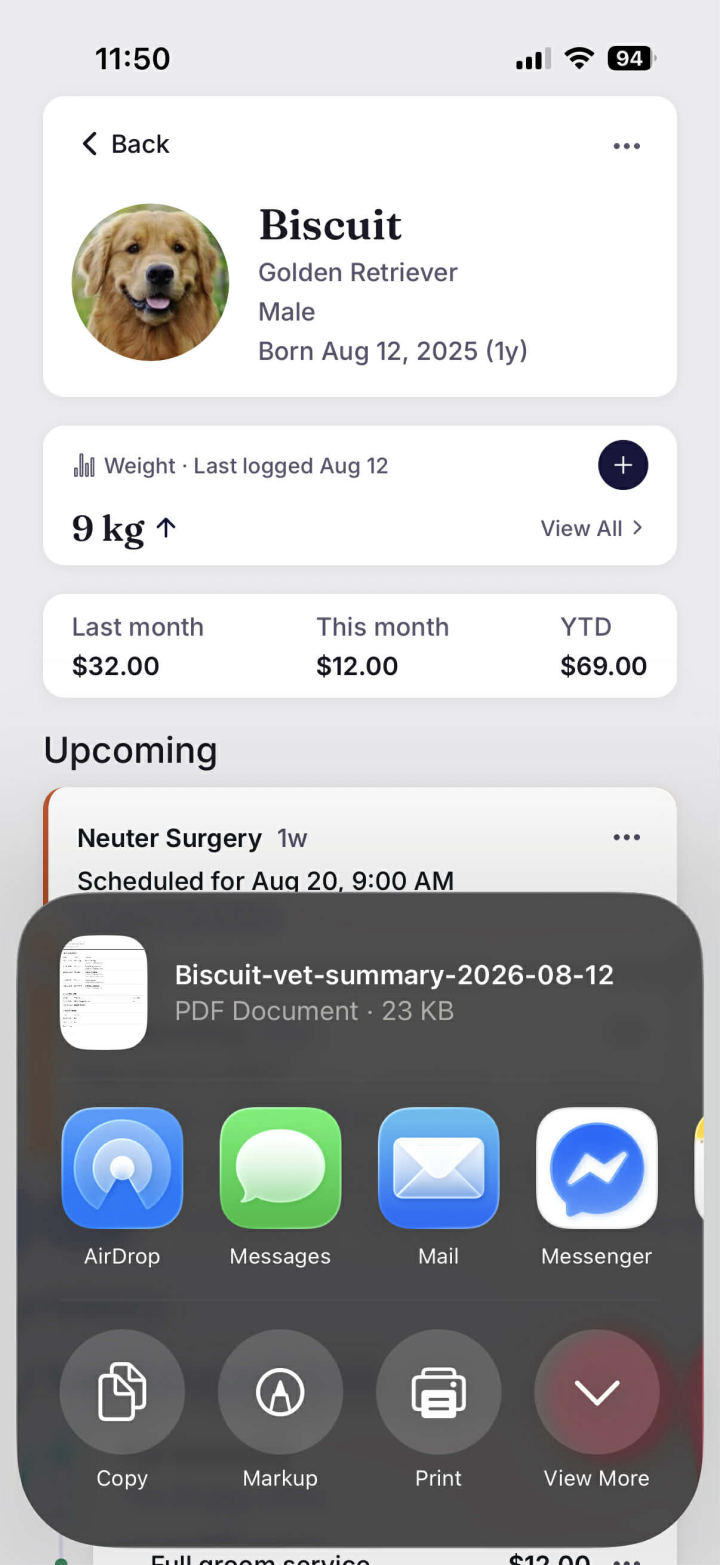
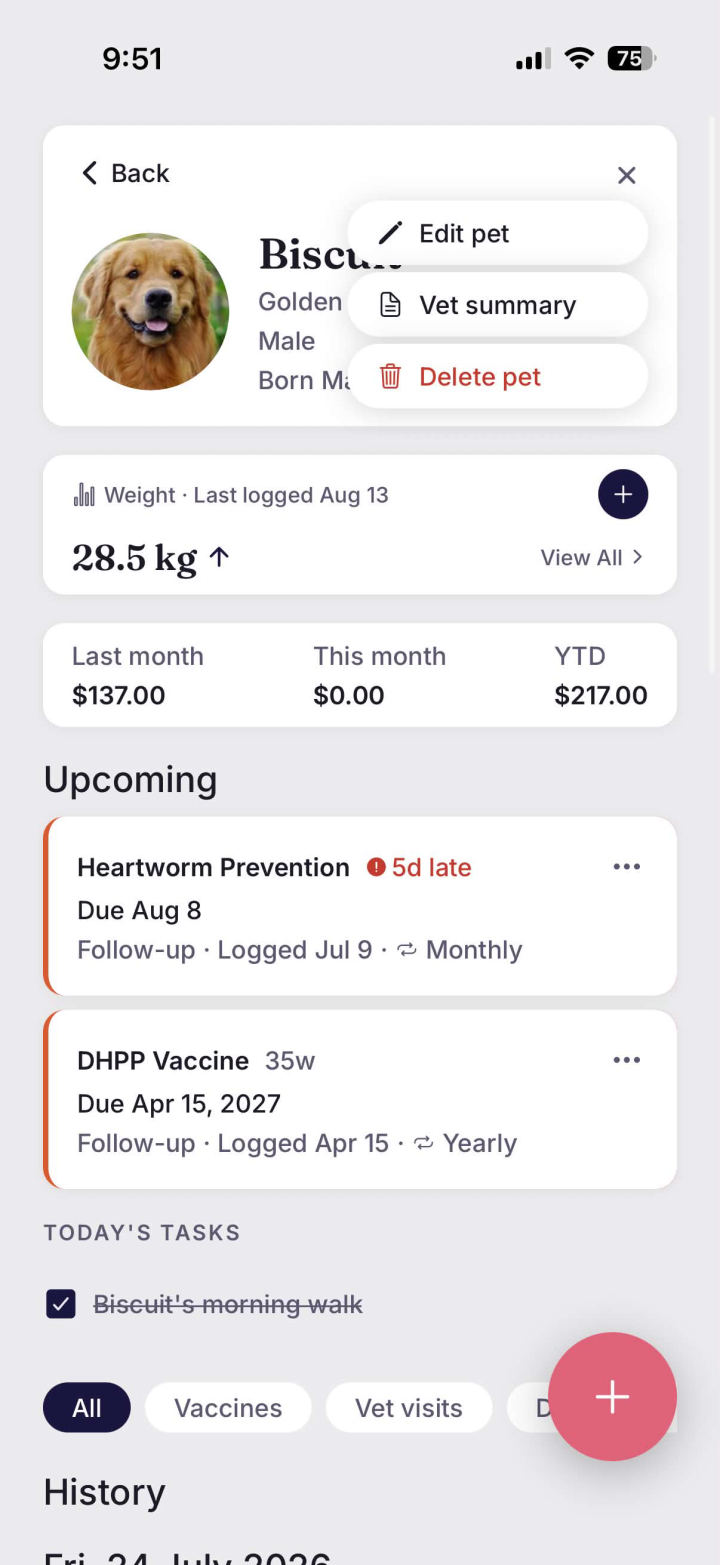
[PET-205 follow-up] Simplify vet-PDF showcase item, remove horizontal-scroll interaction
Three related changes to the vet-PDF item, replacing two rounds of
horizontal-scroll iteration (round 2's re-anchored transform, round 4's
.vet-pdf-scroll container) with a simpler design that has no horizontal
interaction at all:

- New screenshot (assets/marketing/petlist_vet-pdf-export.jpg, already
  updated upstream) is a full-device capture of the pet detail screen with
  its menu open, not a pre-cropped shot like the other three items. Its
  own aspect ratio is nearly identical to the phone frame's, so plain
  object-fit:cover crops almost nothing and the menu rendered too small to
  read. Regenerated the stale compressed -web derivative (still pointing
  at the old screenshot) from the new source, then zoomed via
  transform:scale(1.5) anchored top-center. Tuned empirically. 2.35x
  cropped the menu's own right edge ("Vet summa[ry]", "Delete p[et]"
  truncated) because a uniform scale zooms both axes and the menu sits
  right-of-center in the source; 1.5x is the value that keeps "Edit pet" /
  "Vet summary" / "Delete pet" fully legible while still cropping away the
  weight card and reminders below.

- Removed .vet-pdf-scroll entirely and replaced the peeking, horizontally-
  scrollable document with a small (56-80px) static preview badge, nested
  inside .phone-frame (which has no overflow:hidden of its own, unlike
  .phone-screen) so it anchors precisely to the phone's corner without
  needing its own positioning wrapper. Reuses the existing complete
[…]

diff --git a/css/styles.css b/css/styles.css
@@ -45,8 +45,12 @@ body {
 }
 
 /* Horizontal-overflow backstop (PET-205 round 2, item 3). The actual
-   offending element is fixed at its source -- see .doc-peek-trigger -- this
-   only stops a future regression from becoming a scrollable page.
+   offending element was fixed at its source (`.doc-peek-trigger`'s
+   transform, then round 4's containing wrapper); round 5 removed that
+   whole horizontal-scroll interaction outright in favor of a small static
+   preview badge, so there's nothing left in the showcase strip that comes
+   anywhere near a column edge any more -- this backstop is now purely
+   defensive, with no known element depending on it.
    `clip` is preferred over `hidden` because `hidden` makes the element a
    scroll container, which would break the sticky showcase visual added in
    item 4c. `hidden` is kept as the fallback for browsers without `clip`
@@ -453,6 +457,31 @@ a { color: inherit; }
   object-fit: cover;
 }
 
+/* PET-205 round 5, item 2a: the vet-PDF item's screenshot is now a
+   full-device capture (kebab menu open over the pet detail screen) rather
+   than a pre-cropped shot like the other three -- its own aspect ratio
+   (1206x2622) is nearly identical to the phone frame's, so object-fit:cover
+   alone crops almost nothing and the menu renders too small to read at
+   thumbnail size. Scaled up and anchored top-center via transform (not
+   object-position -- cover has no crop margin to reposition within when
+   source and container aspect ratios already match, so there's nothing
+   for object-position to shift).
+
+   1.5x was chosen empirically, not by formula: a uniform transform:scale()
+   zooms both axes together, so it was tried at a few values and screenshot-
+   checked each time. 2.35x cropped the menu's own right edge ("Vet
+   summa[ry]", "Delete p[et]" truncated mid-word) because the menu sits
+   right-of-center in the source and a symmetric top-center zoom crops both
+   sides equally. 1.5x is the value that keeps "Edit pet" / "Vet summary" /
+   "Delete pet" fully legible with no truncation while still cropping away
+   the weight card, spending figures, and reminders below -- confirmed
+   against the actual rendered composite, not assumed from the transform
+   math. */
+.showcase-item.is-document .phone-screen img {
+  transform: scale(1.5);
+  transform-origin: 50% 0%;
+}
+
 .phone-frame .phone-island {
   /* PET-205 follow-up item 1: a real Dynamic Island is ~4.4% of screen
      height (iPhone 14 Pro: 37.33pt of 852pt) and ~32% of width -- the
@@ -603,96 +632,47 @@ a { color: inherit; }
   }
 }
 
-/* Vet PDF export — distinct treatment: a flat document emerging from
-   beside/behind the phone, not another phone frame. */
+/* Vet PDF export — distinct treatment: a small static document preview
+   badge, tappable to open the full document in a lightbox. */
 
-/* ---------- Contained horizontal overflow (PET-205 round 4) ---------- */
-/* The phone screenshot + peeking document together are wider than a single
-   phone-frame column -- round 2 handled that by re-anchoring the peek's
-   transform so it never quite crossed the container edge, which worked but
-   was fragile: any future change to the offset, rotation, or peek size
-   could silently reintroduce page-wide overflow, since nothing actually
-   CONTAINED it structurally. This wrapper is that structural fix: it's the
-   one element in the showcase strip allowed to scroll horizontally, sized
-   to match its sibling items' visual column (100% width, same as every
-   other .showcase-visual), with overflow-x: auto so any content wider than
-   that column scrolls *inside this box* instead of widening the page.
-   overscroll-behavior-x: contain stops that scroll from chaining to the
-   page once it hits its own edge -- relevant on mobile Safari, where an
-   uncontained horizontal scroll reaching the document edge can interfere
-   with the system's edge swipe-back gesture. */
-.vet-pdf-scroll {
-  position: relative;
-  width: 100%;
-  overflow-x: auto;
-  overscroll-behavior-x: contain;
-  -webkit-overflow-scrolling: touch;
-  scrollbar-width: thin;
-}
-
-/* Right-edge fade: a quiet hint that there's more to scroll, matching the
-   width of the actual overhang below (px-based rotate(7deg) shifts the
-   painted edge ~2.4px per degree per 20px of element half-width; the
-   gradient doesn't need to be exact, just wide enough to read as an edge
-   cue rather than a hard clip line). Pointer-events:none so it never
-   blocks the drag/tap underneath it. */
-.vet-pdf-scroll::after {
-  content: "";
-  position: absolute;
-  top: 0;
-  right: 0;
-  bottom: 0;
-  width: 28px;
-  background: linear-gradient(to right, transparent, var(--lavender-card));
-  pointer-events: none;
-}
-
-/* PET-205 follow-up item 3: the peeking thumbnail is now a tap-to-expand
-   trigger (a <button>, not a bare <img>) showing a tighter letterhead crop
-   at a slightly larger size than before -- the original full-page crop
-   shrunk to ~150px was illegible.
-
-   PET-205 round 4: now that .vet-pdf-scroll (above) structurally contains
-   any overflow, the peek's resting position can go back to a genuine,
-   generous protrusion past the phone's own edge -- round 2's translateX(0)
-   was a compromise forced by having nothing to contain it. translateX(34%)
-   of its own ~175px width is ~60px of overhang, which is real overflow at
-   narrow widths (where it's actually needed -- confirmed 320-360px columns
-   are too narrow to fit phone + peek without it) while fitting naturally,
-   needing no scroll at all, from ~390px up. */
+/* ---------- Simplified static preview (PET-205 round 5, item 2) ---------- */
+/* Replaces the prior two rounds' horizontal-scroll/peek treatment entirely
+   (round 2's re-anchored transform, round 4's .vet-pdf-scroll container).
+   That interaction was removed outright rather than iterated on again: a
+   small, fully-visible static badge needs no scroll container to contain
+   overflow it no longer has, no rotate/translateX slide-in to coordinate
+   with one, and reads more clearly as "tap for more" than "here's a sliver,
+   pan to see the rest." Nested inside .phone-frame (which has no
+   overflow:hidden of its own, unlike .phone-screen) rather than as a
+   sibling in .showcase-visual, so it anchors precisely to the phone's own
+   corner regardless of the column's width -- no extra positioning wrapper
+   needed. It has no .scroll-fade of its own: sitting inside .phone-frame
+   inside .showcase-visual, it fades in as part of that whole block's
+   existing entrance rather than needing a second, separate one. */
 .doc-peek-trigger {
   position: absolute;
-  right: 0;
-  bottom: 6%;
-  width: 52%;
-  max-width: 175px;
+  right: -14px;
+  bottom: 14%;
+  width: 30%;
+  max-width: 80px;
+  min-width: 56px;
   border: none;
   background: none;
   padding: 0;
   cursor: pointer;
-  z-index: 0;
-  opacity: 0;
-  transform: rotate(7deg) translateX(-10%);
+  border-radius: 6px;
+  z-index: 2;
+  /* Slow, low-key ambient pulse (item 2d) -- ~40% peak coral opacity, 3.2s
+     breathing cadence, running continuously rather than scroll-triggered
+     per the ticket. Calibrated against this page's other coral moments
+     (the CTA buttons' own hover shadow, the ambient hero blobs) to read as
+     "quietly alive," not a notification badge or an alert. */
+  animation: doc-peek-pulse 3.2s ease-in-out infinite;
 }
 
-/* Shares the .scroll-fade class's scroll-linked mechanism (native
-   animation-timeline: view(), JS fallback below) rather than the prior
-   round's JS-observer + manual transition-delay, but keeps its own
-   rotate/translateX values instead of .scroll-fade's plain translateY --
-   this is what preserves the "emerging from behind the phone" identity
-   established in round 1, layered onto the same simplified trigger
-   mechanism everything else now uses. */
-@supports (animation-timeline: view()) {
-  .doc-peek-trigger {
-    animation: doc-peek-fade-in linear both;
-    animation-timeline: view();
-    animation-range: cover 0% cover 38%;
-  }
-}
-
-@keyframes doc-peek-fade-in {
-  from { opacity: 0; transform: rotate(7deg) translateX(-10%); }
-  to { opacity: 1; transform: rotate(7deg) translateX(34%); }
+@keyframes doc-peek-pulse {
+  0%, 100% { box-shadow: 0 0 0 0 rgba(224, 99, 122, 0.36), 0 8px 16px -6px rgba(45, 27, 105, 0.35); }
+  50%      { box-shadow: 0 0 0 7px rgba(224, 99, 122, 0), 0 8px 16px -6px rgba(45, 27, 105, 0.35); }
 }
 
 .doc-peek-trigger img {
@@ -700,14 +680,7 @@ a { color: inherit; }
   height: auto;
   display: block;
   border-radius: 6px;
-  overflow: hidden;
-  box-shadow: 0 16px 26px -10px rgba(45, 27, 105, 0.4), 0 3px 8px rgba(45, 27, 105, 0.18);
-  transition: box-shadow 0.18s var(--ease-standard);
-}
-
-.doc-peek-trigger:hover img,
-.doc-peek-trigger:focus-visible img {
-  box-shadow: 0 20px 32px -10px rgba(45, 27, 105, 0.48), 0 4px 10px rgba(45, 27, 105, 0.22);
+  border: 2px solid var(--lavender-card);
 }
 
 .showcase-item.is-document .phone-frame {
@@ -1051,15 +1024,17 @@ a { color: inherit; }
     align-self: start !important;
   }
 
+  /* Stops the ambient pulse (item 2f) rather than removing the glow
+     outright: it still signals "this is tappable" at a glance, which a
+     reduced-motion user benefits from just as much as anyone else -- only
+     the breathing motion itself is what this preference asks to remove.
+     Not frozen at the pulse's own 0%/100% keyframe -- that's a 0-spread
+     ring, i.e. invisible, which would silently remove the affordance
+     rather than hold it still. Uses a fixed mid-way spread/opacity instead
+     so a real (static) ring is always visible. */
   .doc-peek-trigger {
     animation: none !important;
-    transition: none !important;
-    opacity: 1 !important;
-    transform: rotate(7deg) translateX(34%) !important;
-  }
-
-  .doc-peek-trigger img {
-    transition: none;
+    box-shadow: 0 0 0 3px rgba(224, 99, 122, 0.2), 0 8px 16px -6px rgba(45, 27, 105, 0.35) !important;
   }
 
   .lightbox,

diff --git a/index.html b/index.html
@@ -32,7 +32,6 @@
      exist) would otherwise see this content permanently invisible --
      this unhides it unconditionally for exactly that no-JS case. */
   .scroll-fade { opacity: 1 !important; transform: none !important; }
-  .doc-peek-trigger { opacity: 1 !important; transform: rotate(7deg) translateX(34%) !important; }
 </style>
 </noscript>
 </head>
@@ -127,12 +126,10 @@
 
         <article class="showcase-item is-document">
           <div class="showcase-visual scroll-fade">
-            <div class="vet-pdf-scroll">
-              <div class="phone-frame">
-                <div class="phone-island" aria-hidden="true"></div>
-                <div class="phone-screen">
-                  <img src="assets/marketing/petlist_vet-pdf-export-web.jpg" alt="PetList's vet summary export screen, about to generate a PDF" width="720" height="1565" loading="lazy">
-                </div>
+            <div class="phone-frame">
+              <div class="phone-island" aria-hidden="true"></div>
+              <div class="phone-screen">
+                <img src="assets/marketing/petlist_vet-pdf-export-web.jpg" alt="PetList's pet detail screen with its menu open, showing the Vet Summary export option" width="720" height="1565" loading="lazy">
               </div>
               <button type="button" class="doc-peek-trigger" data-lightbox-trigger aria-label="View the full vet summary document">
                 <img src="assets/marketing/petlist_vet-pdf-letterhead-web.jpg" alt="Letterhead of a generated PetList vet visit summary PDF, showing the pet's health events table" width="560" height="801" loading="lazy">
@@ -302,11 +299,16 @@
     // same element -- exactly one of them is live at a time.
     if (reduceMotion) {
       // Reduced motion: css/styles.css's @media block already forces every
-      // .scroll-fade / .doc-peek-trigger to its resting visible state with
-      // !important, so there's nothing for this script to do.
+      // .scroll-fade to its resting visible state with !important, so
+      // there's nothing for this script to do.
     } else if (!(window.CSS && CSS.supports && CSS.supports('animation-timeline', 'view()'))) {
+      // PET-205 round 5: the vet-PDF preview (.doc-peek-trigger) dropped its
+      // bespoke rotate/translateX slide-in along with the horizontal-scroll
+      // treatment it used to accompany -- it's a plain .scroll-fade element
+      // now like everything else, so this fallback no longer needs to
+      // special-case it at all.
       var fadeTargets = Array.prototype.slice.call(
-        document.querySelectorAll('.scroll-fade, .doc-peek-trigger')
+        document.querySelectorAll('.scroll-fade')
       );
       var fadeTicking = false;
 
@@ -333,21 +335,14 @@
         fadeTargets.forEach(function (el) {
           if (atMaxScroll) {
             el.style.opacity = 1;
-            el.style.transform = el.classList.contains('doc-peek-trigger')
-              ? 'rotate(7deg) translateX(34%)'
-              : 'translateY(0px)';
+            el.style.transform = 'translateY(0px)';
             return;
           }
           var rect = el.getBoundingClientRect();
           var progress = (vh - rect.top) / (vh - endAt);
           progress = Math.max(0, Math.min(1, progress));
           el.style.opacity = progress;
-          if (el.classList.contains('doc-peek-trigger')) {
-            var tx = -10 + progress * 44; // -10% -> 34%, matches doc-peek-fade-in (round 4)
-            el.style.transform = 'rotate(7deg) translateX(' + tx.toFixed(2) + '%)';
-          } else {
-            el.style.transform = 'translateY(' + ((1 - progress) * 28).toFixed(2) + 'px)';
-          }
+          el.style.transform = 'translateY(' + ((1 - progress) * 28).toFixed(2) + 'px)';
         });
         fadeTicking = false;
       };
